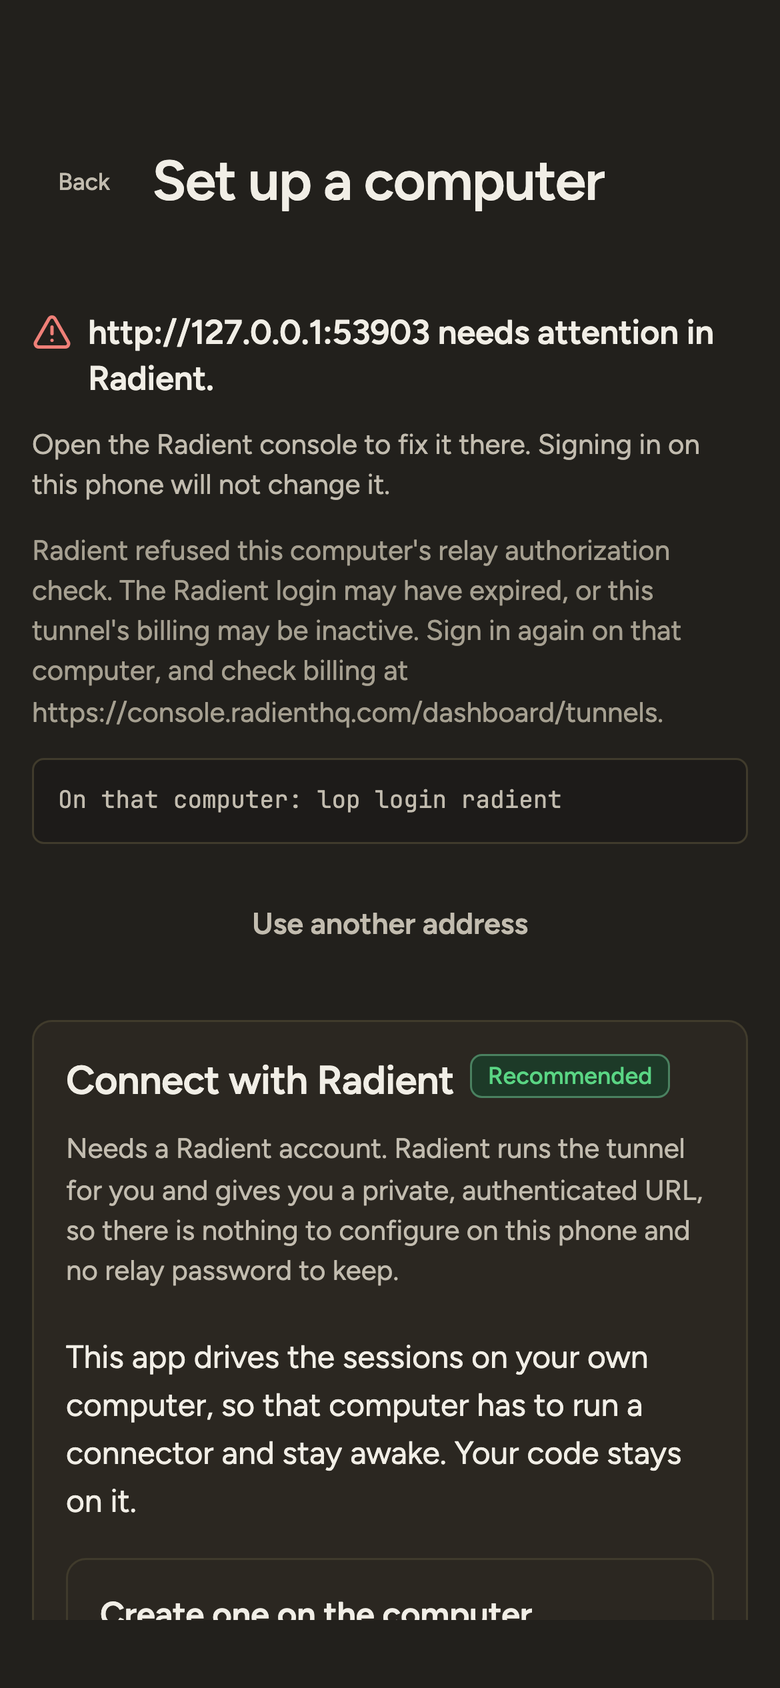
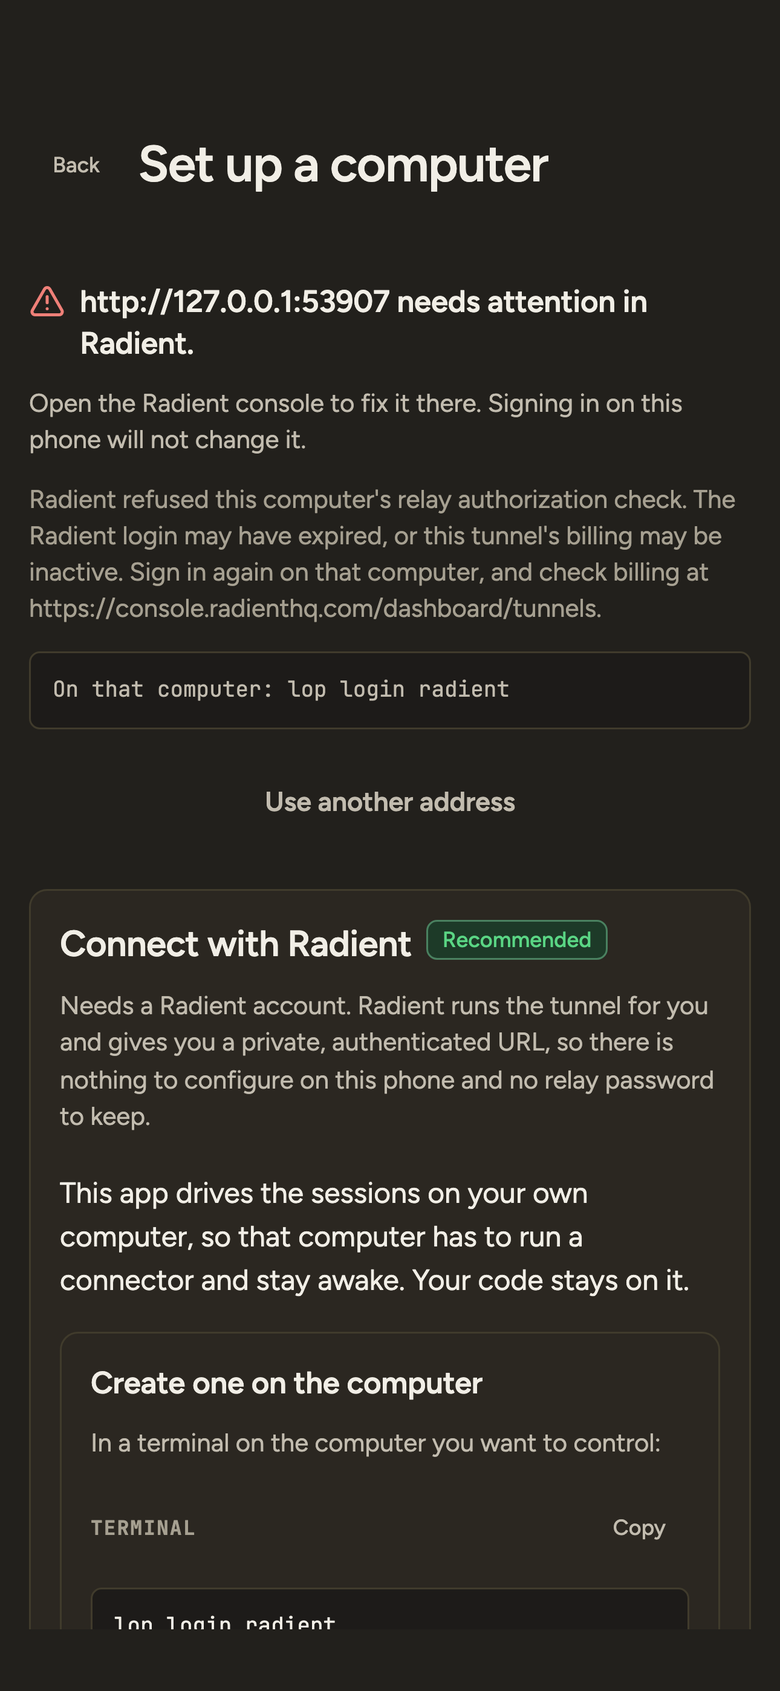
docs(readme): pin the hero, swap the composer pair for approvals, and fix the refusal fold
Design round 1's findings, in one commit.

D1 — the hero `<img>` carried no `width`, so at 780x1688 it was 2.3 viewports
tall and 18.4% of the README's height. It is pinned at `width="360"`, the same
figure the sibling repositories use for a phone frame; every table image already
had `width="260"`.

D2 — the refusal pair is re-captured on a 430 pt phone. The finding's premise was
nearly right: the frame is NOT scrolled — the harness captures at scrollTop 0 and
has no scroll option — what cuts the label is the screen's 34 pt home-indicator
inset, ending the content viewport at 810 pt of 844. On that device any frame of
this screen chops whatever lands at 810 pt and leaves a 34 pt canvas band under
it. A taller phone fits the whole card inside the fold, so the CTA label renders
complete. The band and a chop at the fold remain (now a monospace code line, 61
rows of canvas below instead of 68): that is inherent to photographing a
taller-than-viewport screen at scrollTop 0, and scrolling would only relocate the
chop. Disclosed in the `## Screenshots` prose, which now states which pair is on
which device.

D3 — every table `alt` describes what the frame shows instead of naming the
screen and the theme.

D4 — the composer pair is removed and an approvals pair takes its place. The
composer files were, by construction, `-crop 1170x532+0+2000` of the session-view
frame; re-running that crop reproduces them with 0 differing pixels, so they
[…]

diff --git a/README.md b/README.md
@@ -37,7 +37,7 @@
     <source media="(prefers-color-scheme: dark)" srcset="./docs/assets/screenshots/session-view-dark.png">
     <source media="(prefers-color-scheme: light)" srcset="./docs/assets/screenshots/session-view-light.png">
     <img alt="The session view in light theme: a transcript with a diff, a table and a running tool row, the to-do and subagent strips, and the composer with its model and effort chips."
-         src="./docs/assets/screenshots/session-view-light.png">
+         width="360" src="./docs/assets/screenshots/session-view-light.png">
   </picture>
   <br />
   <sub><code>a session at work</code> — the transcript, the to-do and subagent strips, and the composer's model and effort chips.</sub>
@@ -121,24 +121,28 @@ secrets only, never in this repository.
 ## Screenshots
 
 Captured from the app's own web export (`pnpm export:web`), driven in installed
-headless Chrome at a 390 pt viewport, against the mock relay in
+headless Chrome, against the mock relay in
 [`tools/mock-relay/`](./tools/mock-relay/). Every frame is the app driven against
 that relay's **fixture data**: the conversations, session names and model labels
 are fixtures, not anyone's real sessions — and `nope/nope` in the session list is
 the captured corpus's own placeholder label, sitting beside the realistic
 `anthropic/claude-opus-5` that the synthetic fixtures carry. The light and dark
-frames are the same cells with the theme overridden, and the composer row is the
-composer band of the session view above it.
+frames are the same cell with the theme overridden, and the session view and the
+approvals card are the same session in two of its states.
 
-| | Light | Dark |
+The frames are a 390 pt phone at 3×. The refusal pair is a 430 pt phone instead:
+that screen's card is taller than one fold on the smaller device, and an
+uncropped frame there cuts a control's label through the glyphs.
+
+| Screen | Light | Dark |
 | --- | --- | --- |
-| **Welcome** — the first run, and the two ways in. | <img alt="The welcome screen in light theme." src="./docs/assets/screenshots/welcome-light.png" width="260"> | <img alt="The welcome screen in dark theme." src="./docs/assets/screenshots/welcome-dark.png" width="260"> |
-| **Sign in** — Radient, or an address and the relay password. | <img alt="The sign-in screen in light theme." src="./docs/assets/screenshots/sign-in-light.png" width="260"> | <img alt="The sign-in screen in dark theme." src="./docs/assets/screenshots/sign-in-dark.png" width="260"> |
-| **Session list** — active and previous, with what each one is doing right now. | <img alt="The session list in light theme." src="./docs/assets/screenshots/session-list-light.png" width="260"> | <img alt="The session list in dark theme." src="./docs/assets/screenshots/session-list-dark.png" width="260"> |
-| **Session view** — the transcript, a running tool row, the to-do and subagent strips. | <img alt="A session's transcript in light theme." src="./docs/assets/screenshots/session-view-light.png" width="260"> | <img alt="A session's transcript in dark theme." src="./docs/assets/screenshots/session-view-dark.png" width="260"> |
-| **Composer** — one control for send, steer and stop, with the model and effort chips. | <img alt="The composer band in light theme, showing the message field and the model and effort chips." src="./docs/assets/screenshots/composer-light.png" width="420"> | <img alt="The composer band in dark theme, showing the message field and the model and effort chips." src="./docs/assets/screenshots/composer-dark.png" width="420"> |
-| **Settings** — the connected computer, appearance, diagnostics. | <img alt="The settings screen in light theme." src="./docs/assets/screenshots/settings-light.png" width="260"> | <img alt="The settings screen in dark theme." src="./docs/assets/screenshots/settings-dark.png" width="260"> |
-| **A refusal** — a tunnel that will not let this phone in, and what to do about it. | <img alt="The refusal surface in light theme." src="./docs/assets/screenshots/refusal-light.png" width="260"> | <img alt="The refusal surface in dark theme." src="./docs/assets/screenshots/refusal-dark.png" width="260"> |
+| **Welcome** — the first run, and the two ways in. | <img alt="The welcome screen: the app's promise that your agent runs on your computer, with Sign in with Radient and Set up your own tunnel." src="./docs/assets/screenshots/welcome-light.png" width="260"> | <img alt="The welcome screen in dark theme: the same promise and the same two ways in." src="./docs/assets/screenshots/welcome-dark.png" width="260"> |
+| **Sign in** — Radient, or an address and the relay password. | <img alt="The sign-in screen: Sign in with Radient, or use an address and password." src="./docs/assets/screenshots/sign-in-light.png" width="260"> | <img alt="The sign-in screen in dark theme: the same two ways to sign in." src="./docs/assets/screenshots/sign-in-dark.png" width="260"> |
+| **Session list** — active and previous, with what each one is doing right now. | <img alt="The session list: a running session with its subagent count, one session waiting on approval, and a previous one, above the New session, Past and Computers controls." src="./docs/assets/screenshots/session-list-light.png" width="260"> | <img alt="The session list in dark theme: the same active and previous sessions." src="./docs/assets/screenshots/session-list-dark.png" width="260"> |
+| **Session view** — the transcript, a running tool row, the to-do and subagent strips. | <img alt="A session's transcript: user turns, a bash tool row with its duration, a diff, two markdown tables, the to-dos and subagent strips, and the composer with its model and effort chips." src="./docs/assets/screenshots/session-view-light.png" width="260"> | <img alt="The same transcript in dark theme." src="./docs/assets/screenshots/session-view-dark.png" width="260"> |
+| **Approvals** — a step the agent wants to run, and the two ways to answer it. | <img alt="A pending approval in the transcript: the bash command the agent wants to run, the folder it runs in, an Approve and a Deny button, and an always-allow control." src="./docs/assets/screenshots/approval-light.png" width="260"> | <img alt="The same pending approval in dark theme." src="./docs/assets/screenshots/approval-dark.png" width="260"> |
+| **Settings** — the connected computer, appearance, diagnostics. | <img alt="The settings screen: the connected computer and its status, the theme and text-size controls, and diagnostics." src="./docs/assets/screenshots/settings-light.png" width="260"> | <img alt="The settings screen in dark theme: the same connection, appearance and diagnostics sections." src="./docs/assets/screenshots/settings-dark.png" width="260"> |
+| **A refusal** — a tunnel that will not let this phone in, and what to do about it. | <img alt="The refusal surface: a tunnel that needs attention in Radient, the command to run on that computer, and the other ways to connect." src="./docs/assets/screenshots/refusal-light.png" width="260"> | <img alt="The refusal surface in dark theme: the same refusal and the same remedies." src="./docs/assets/screenshots/refusal-dark.png" width="260"> |
 
 ## Development
 
